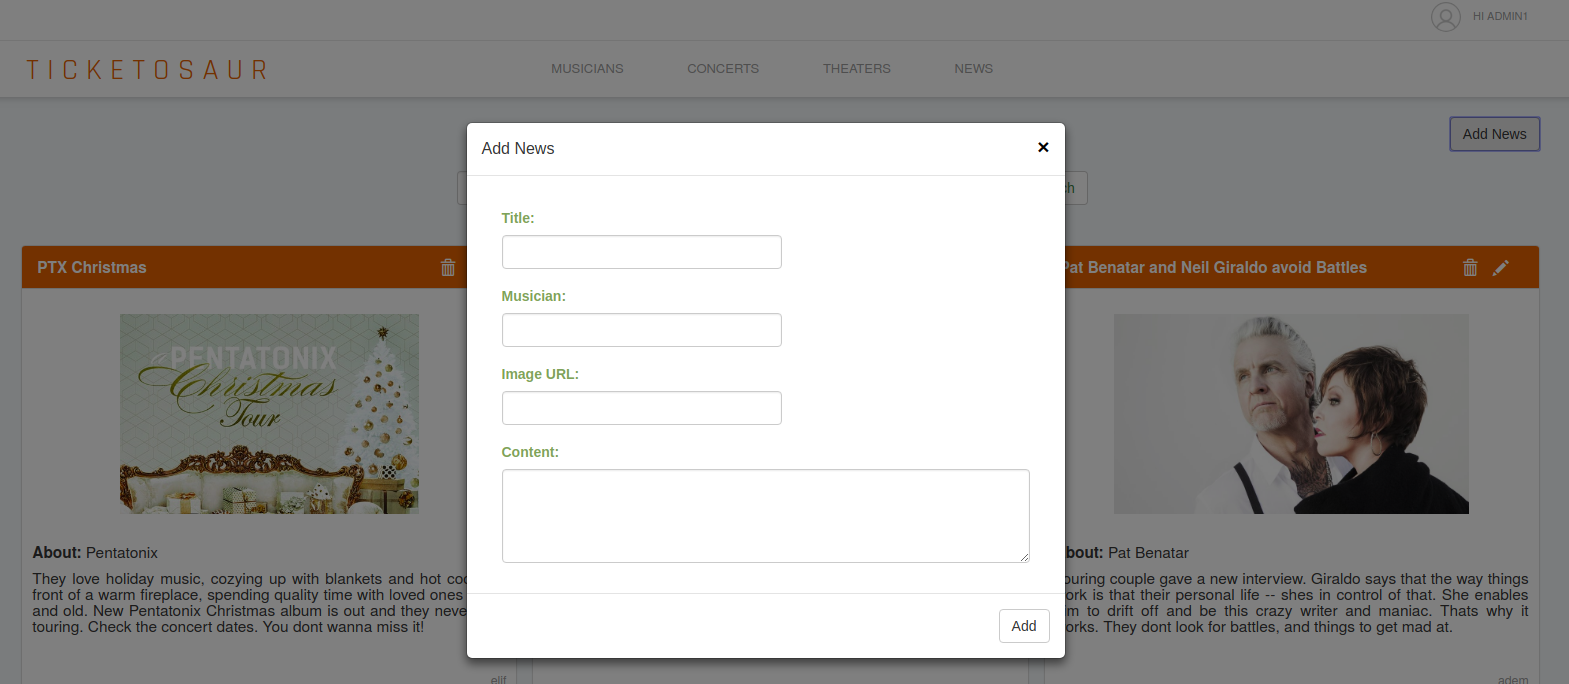
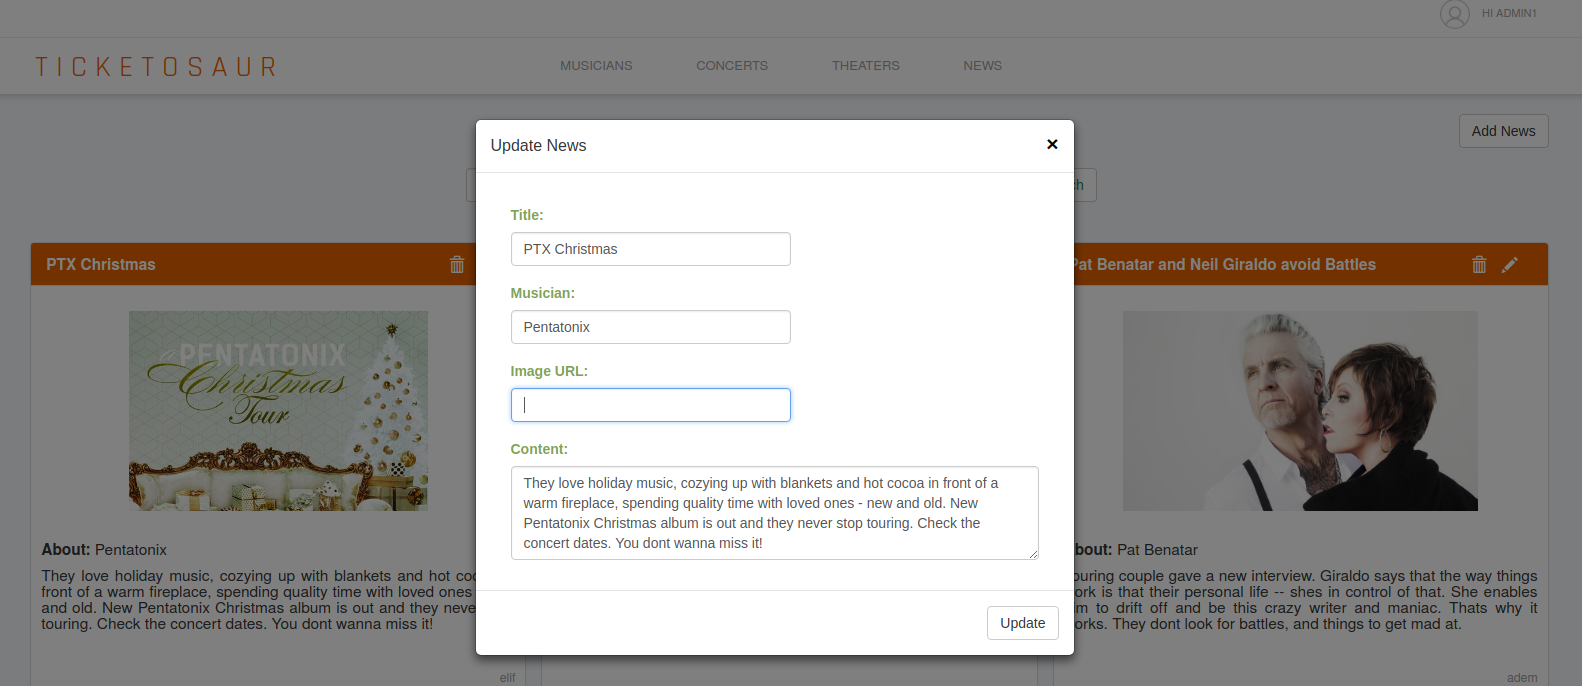
Image changes

diff --git a/docs/user/Elif Özer.rst b/docs/user/Elif Özer.rst
@@ -192,15 +192,10 @@ If you are an admin user, you have all the privileges that a regular user has. Y
      News Page (Admin)
 
 
+When adding, updating and deleting news, you will fave with modals. The update and the delete modals are shown as an example.
+
+
 .. figure:: ../images/15.*
-     :scale: 100 %
-     :alt: News Page
-     :align: center
-
-     News Page (Adding News)
-
-
-.. figure:: ../images/16.*
      :scale: 100 %
      :alt: News Page
      :align: center
@@ -208,7 +203,7 @@ If you are an admin user, you have all the privileges that a regular user has. Y
      News Page (Updating News)
 
 
-.. figure:: ../images/17.*
+.. figure:: ../images/16.*
      :scale: 100 %
      :alt: News Page
      :align: center
